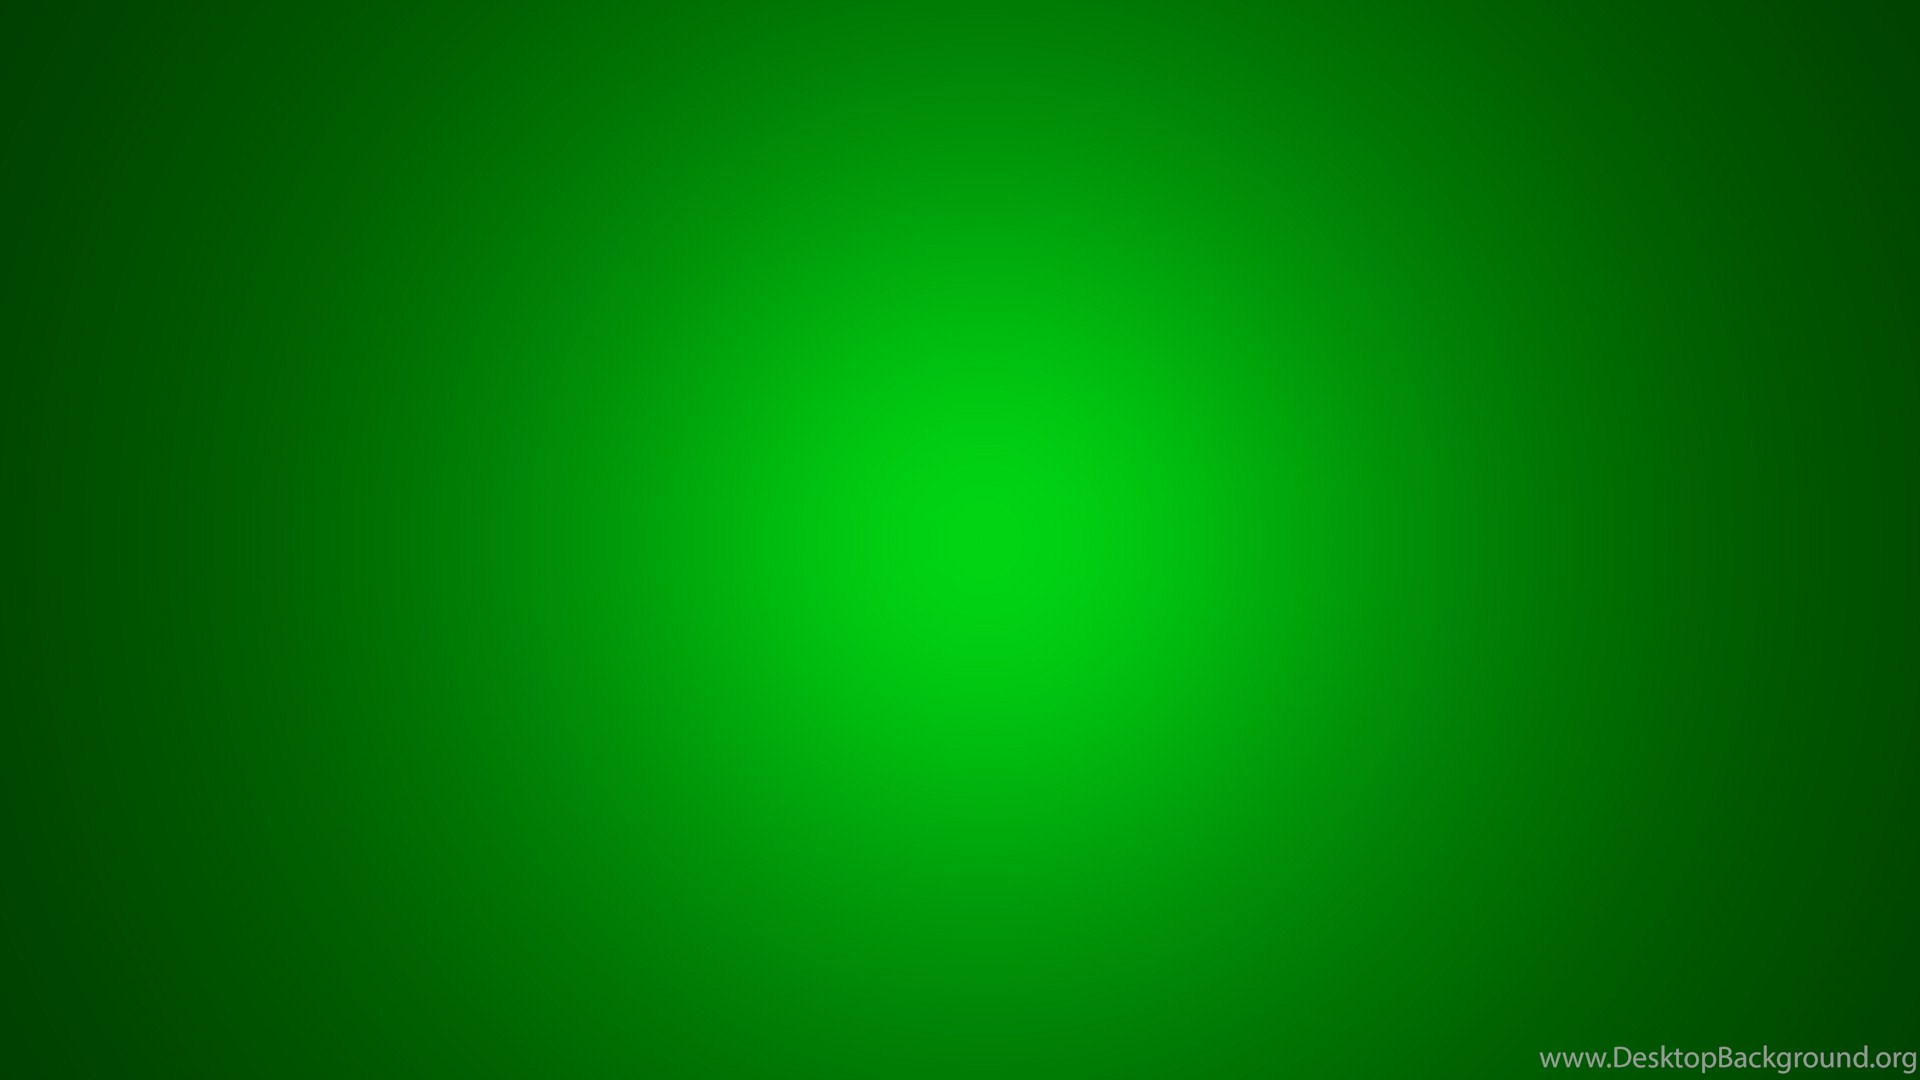
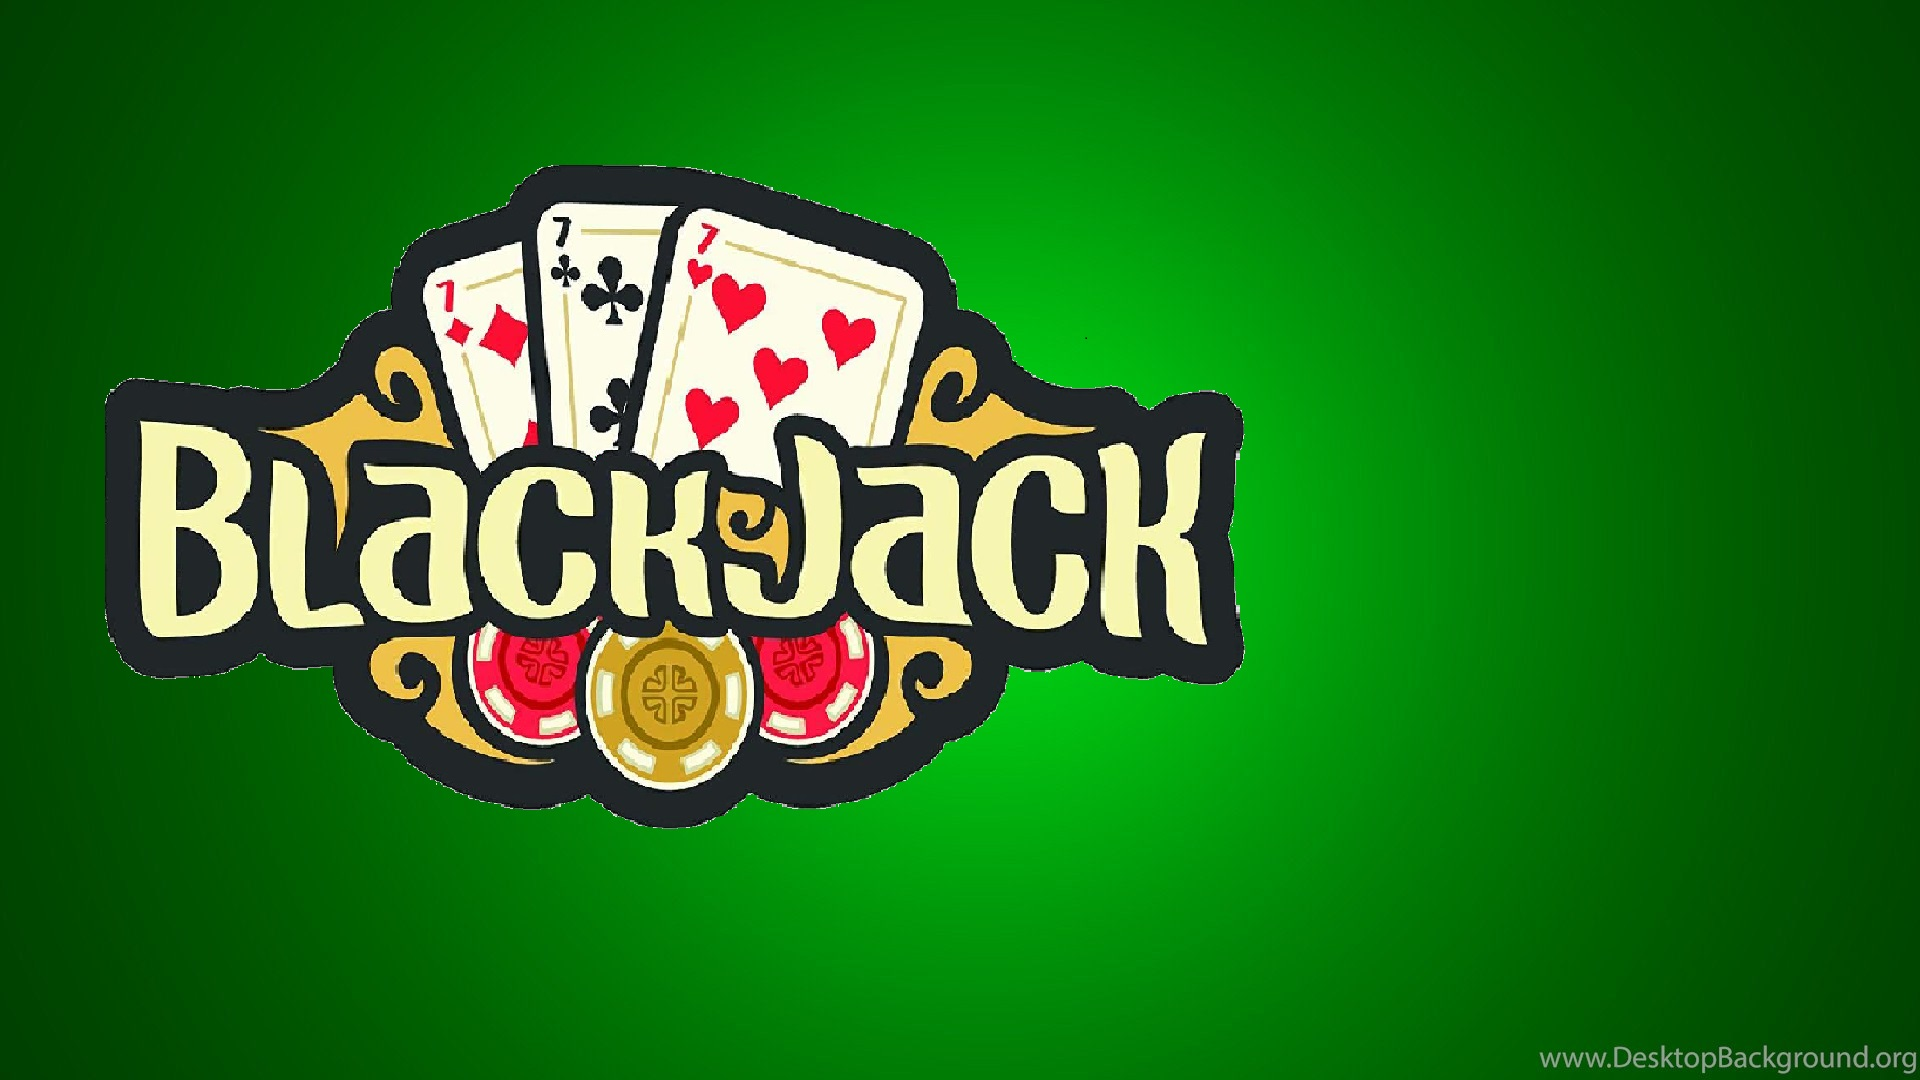
home screen done

Changed region(s): [[0.0312, 0.1528, 0.6562, 0.7639]]

diff --git a/main.py b/main.py
@@ -1,6 +1,28 @@
 from tkinter import *
+from PIL import ImageTk,Image
 
 root = Tk()
+
+root.resizable(width= False, height= False)
+WW = 600
+WH = 400
+SW = root.winfo_screenwidth()
+SH = root.winfo_screenheight()
+x = SW/2 - WW/2
+y = SH/2 - WH/2
+root.geometry('%dx%d+%d+%d' %(WW, WH, x, y))
+root.title('Blackjack')
+root.config(bg='green')
+
+
+l1 = Label(root, text='BlackJack', bg='green', font=('ROG Fonts', 30))
+l1.place(x=160, y=10)
+
+b1 = Button(root, text='Start', font=(40), height=1, width=15)
+b2 = Button(root, text='Exit', font=(40), height=1, width=15)
+
+b1.place(x=220, y=120)
+b2.place(x=220, y=190)
 
 
 
